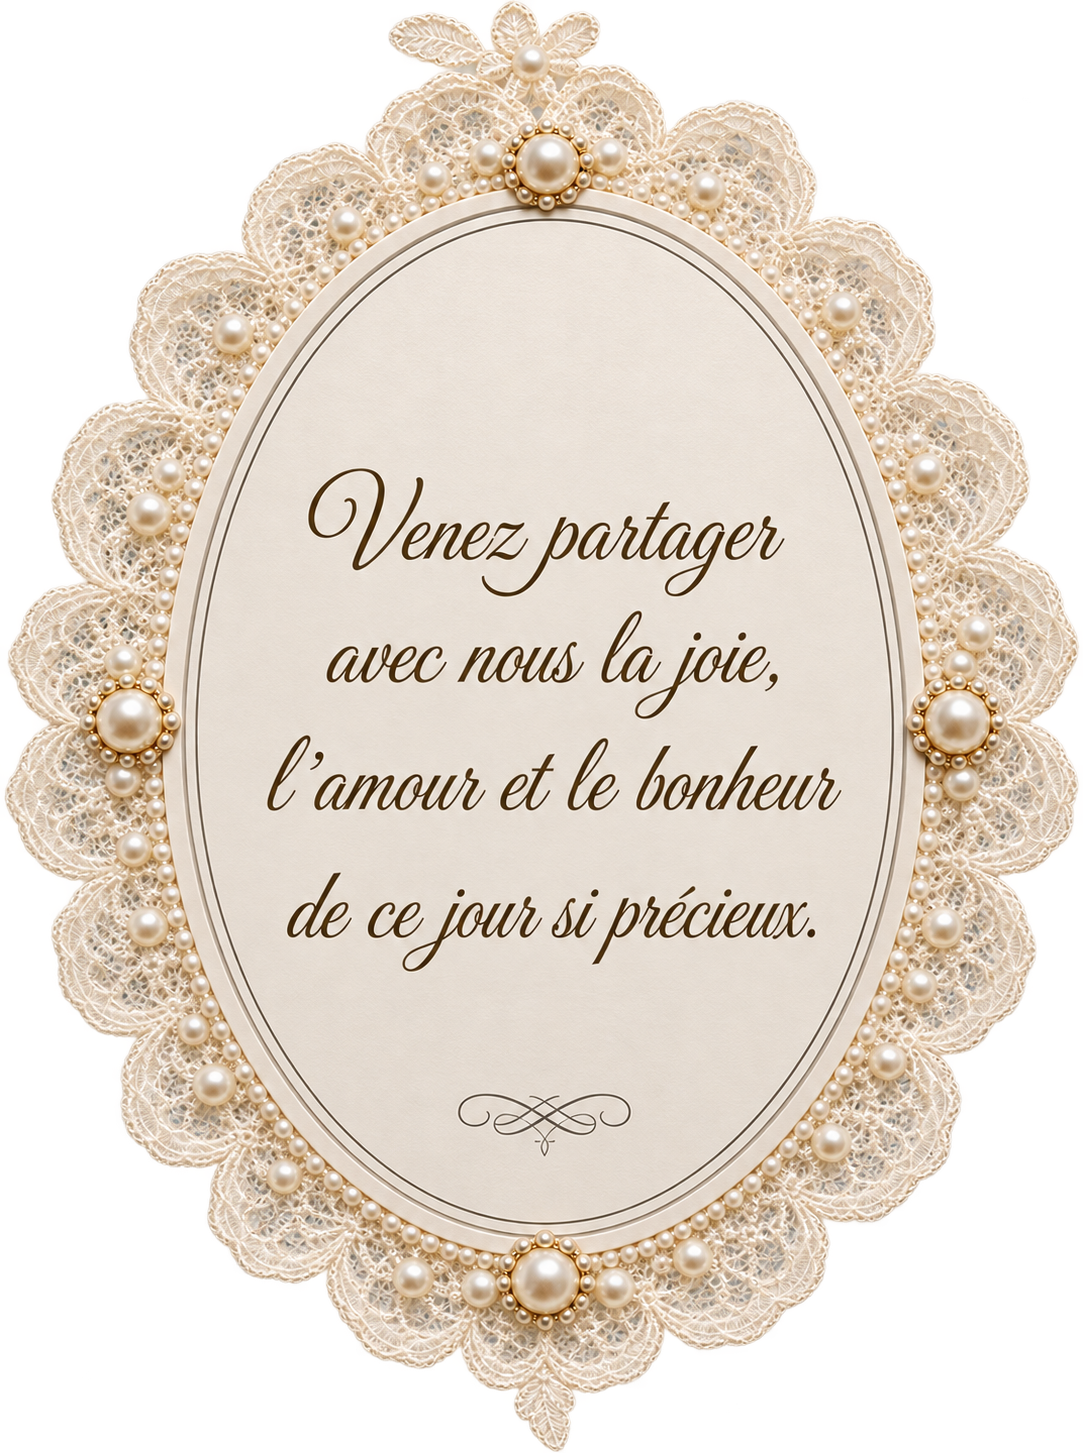
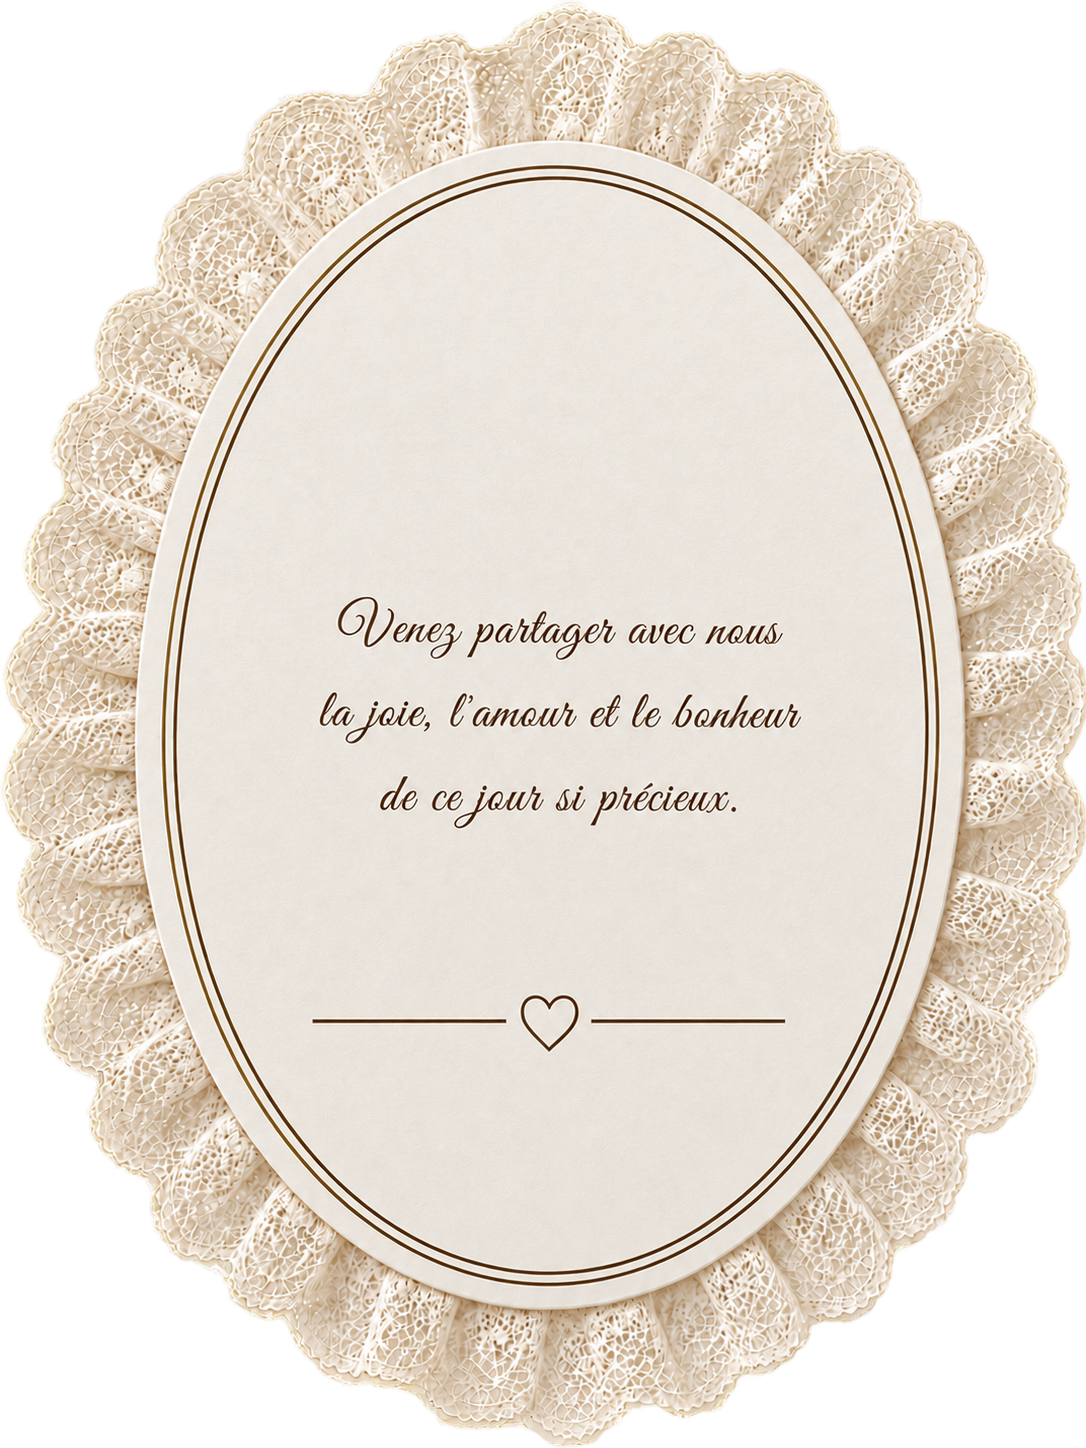
Ajout de la section calendrier788

diff --git a/templates/eya-et-sami/style.css b/templates/eya-et-sami/style.css
@@ -1768,6 +1768,19 @@ body.scroll-enabled {
 
 .countdown-frame-section {
   padding-top: 0.5rem;
+  padding-bottom: 0.5rem;
+}
+
+.countdown-frame-card {
+  padding-bottom: 0.5rem;
+}
+
+.countdown-photo {
+  margin-bottom: 0;
+}
+
+.site-footer {
+  padding-top: 1rem;
 }
 
 .countdown-photo {
